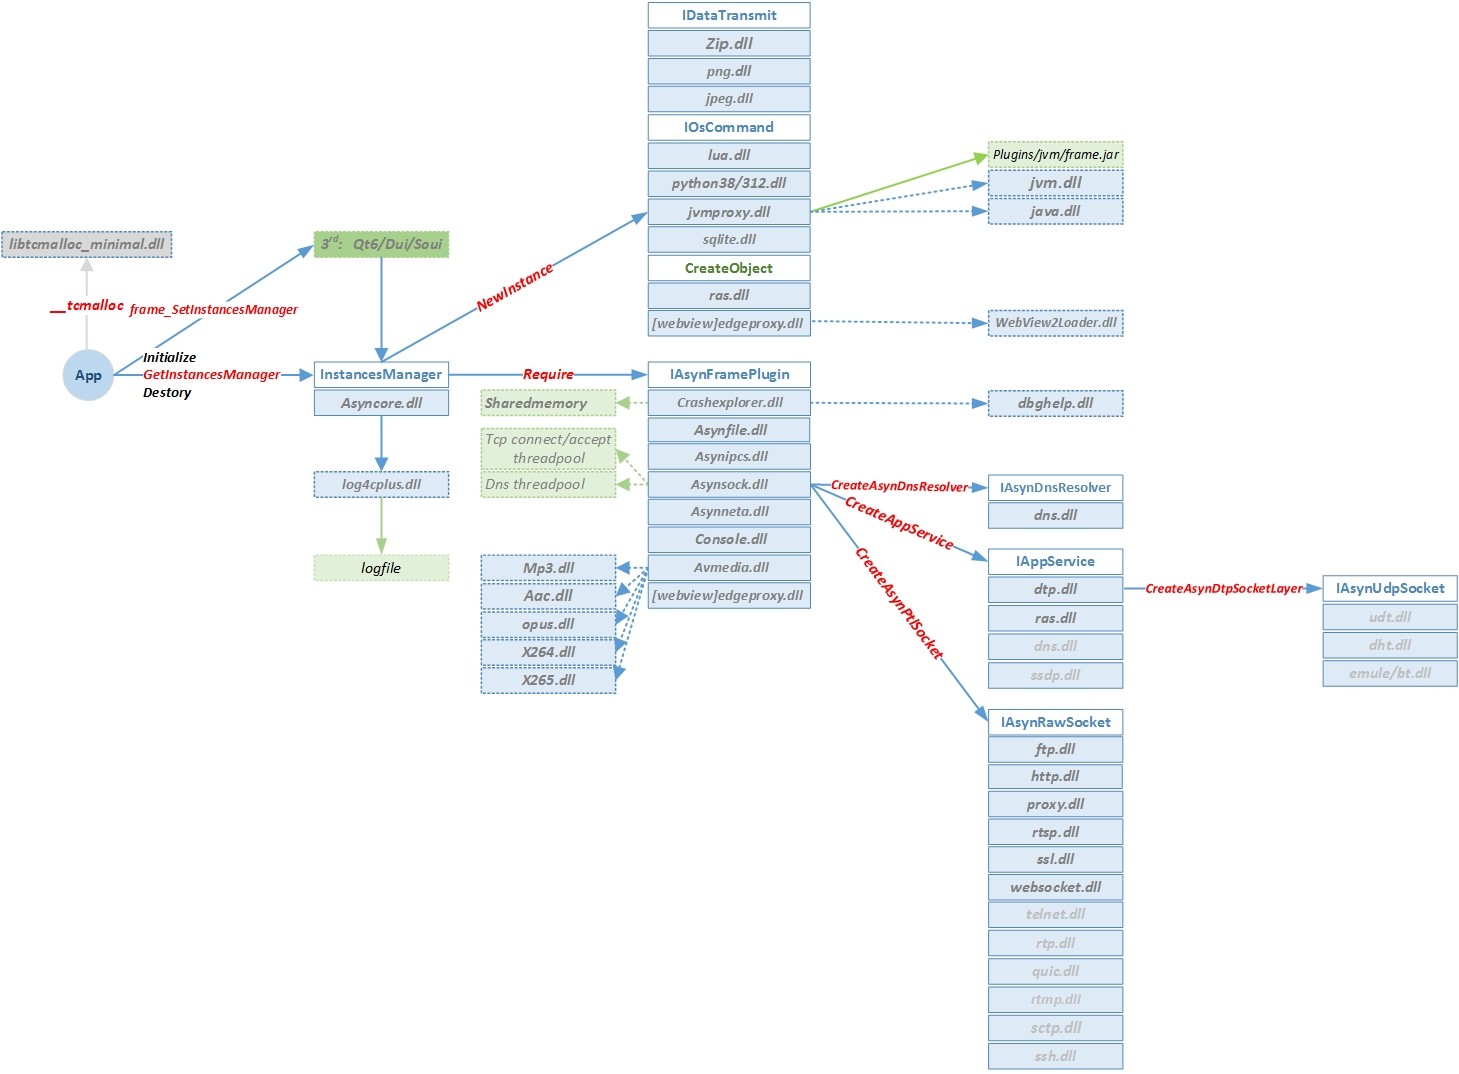
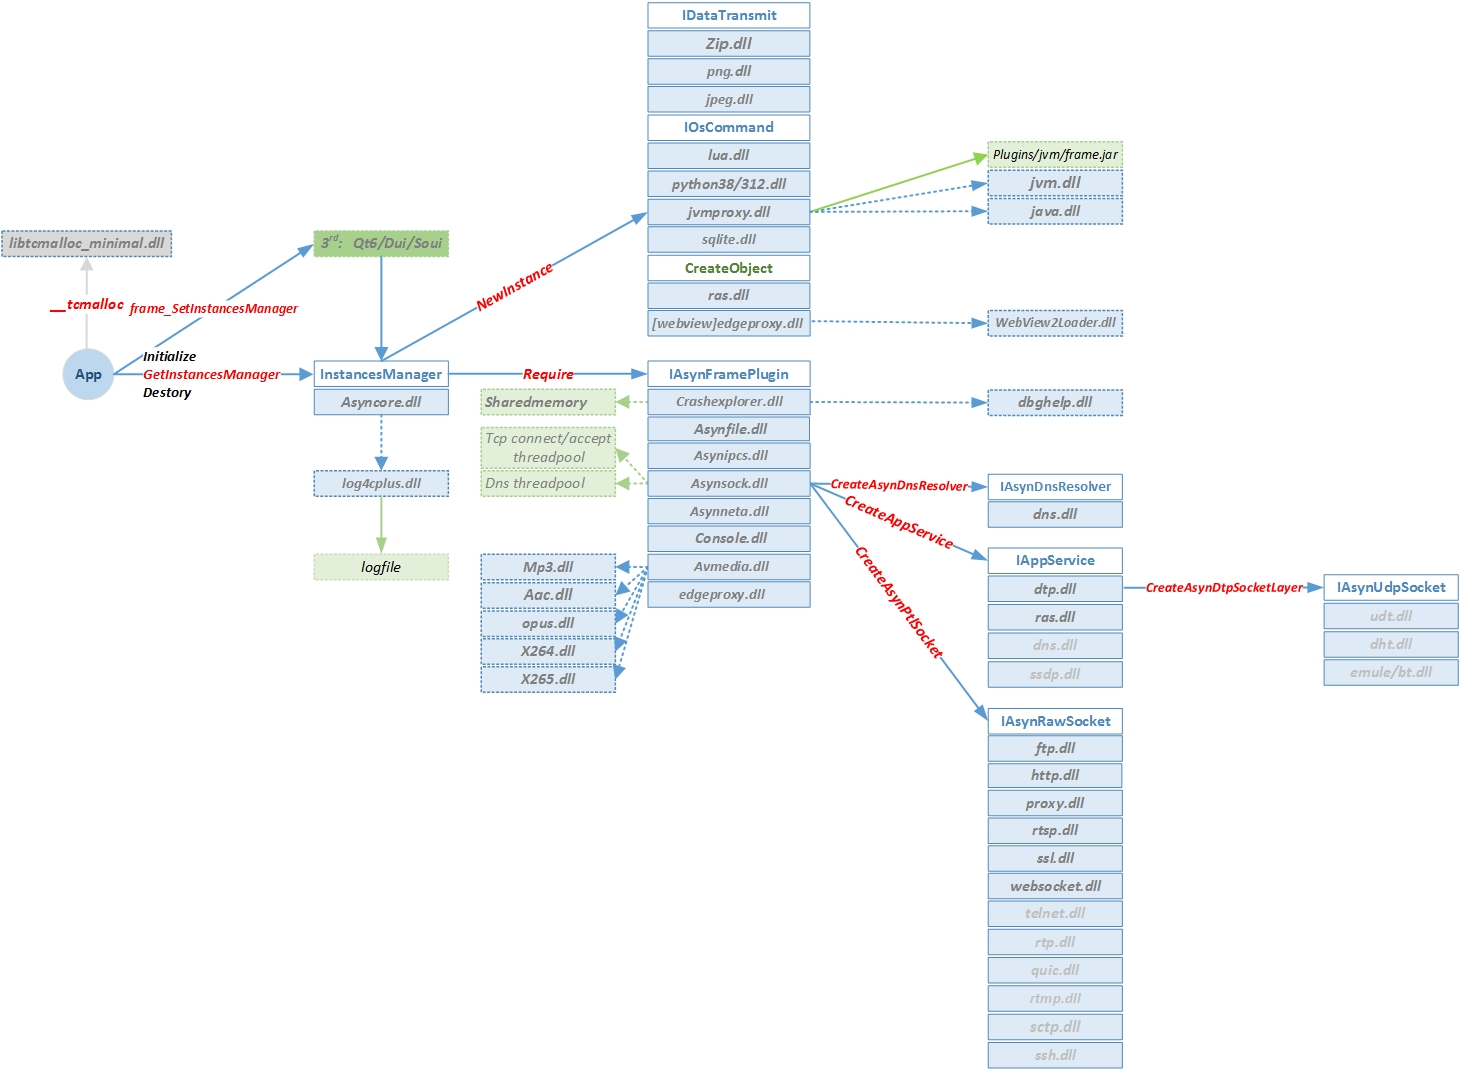
2.0.1-20250213

diff --git a/index_EN.md b/index_EN.md
@@ -27,10 +27,10 @@ Asynframe framework solves the six problems mentioned above in the process of so
 2. Provide a unified device operation interface (including file, pipe, socket, etc.)  
 3. The operation chain is used to solve the problems of synchronization / communication between threads, execution timeout and resource / performance when integrating third-party open source projects  
 4. Provide basic network protocol module：dns/udp/tcp/ssl/ftp/http/rtsp/proxy/websocket  
-6. Reference count management object memory  
-7. Provide microsecond timer  
-8. Support dynamic loading [Log4cplus](https://github.com/log4cplus/log4cplus), unified module output logs  
-9. Support embedded Lua, JVM and Python Virtual Machine Development Framework  
+5. Reference count management object memory  
+6. Provide microsecond timer  
+7. Support dynamic loading [Log4cplus](https://github.com/log4cplus/log4cplus), unified module output logs  
+8. Support embedded Lua, JVM and Python Virtual Machine Development Framework  
 ![image](https://netsecsp.github.io/img/01_asynframe.jpg)  
 
 **Development advantage:**  
